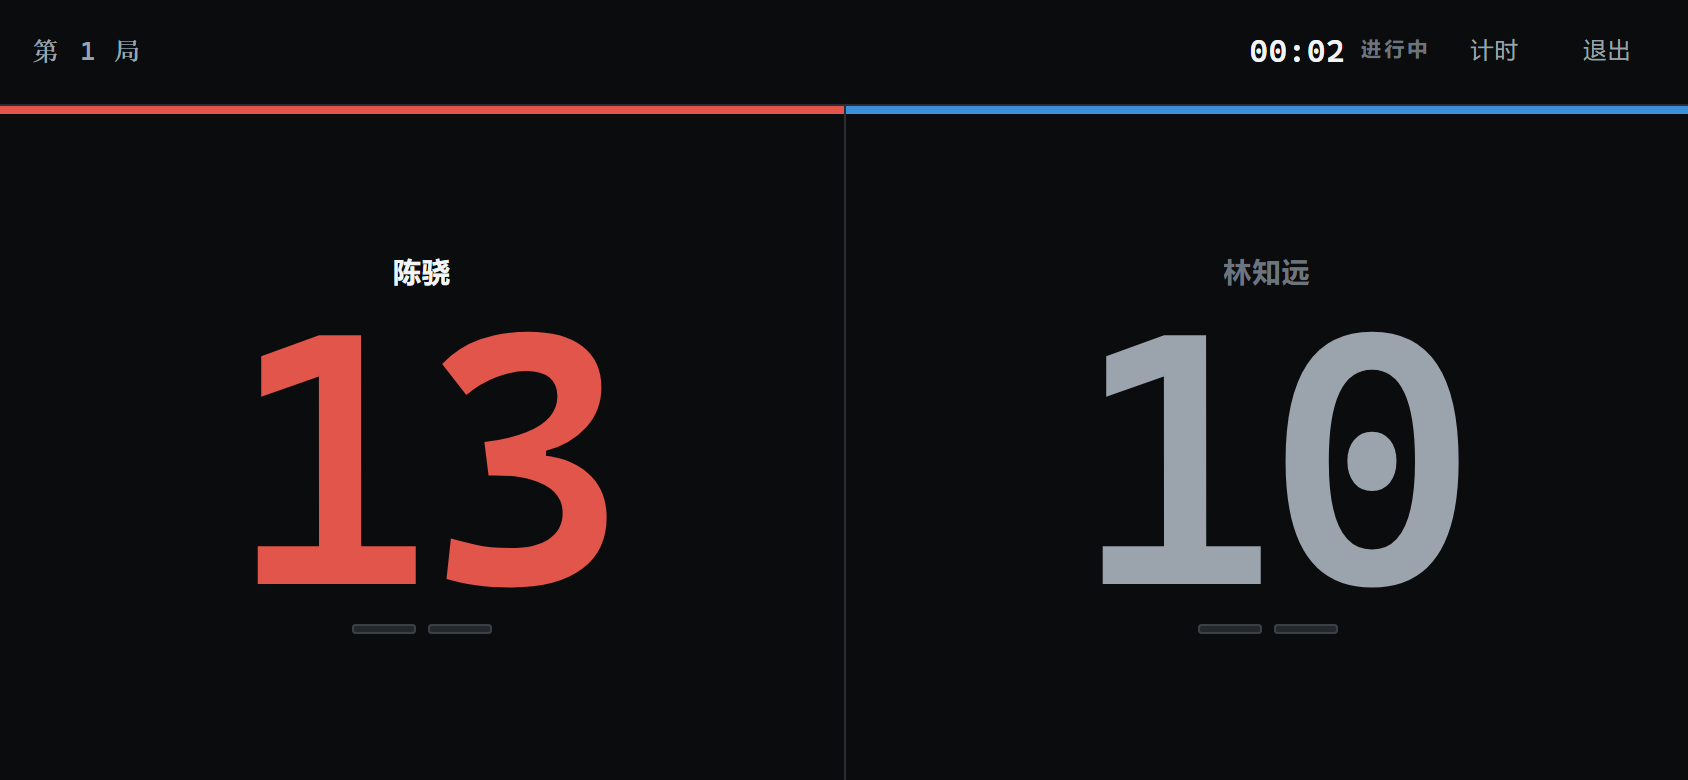
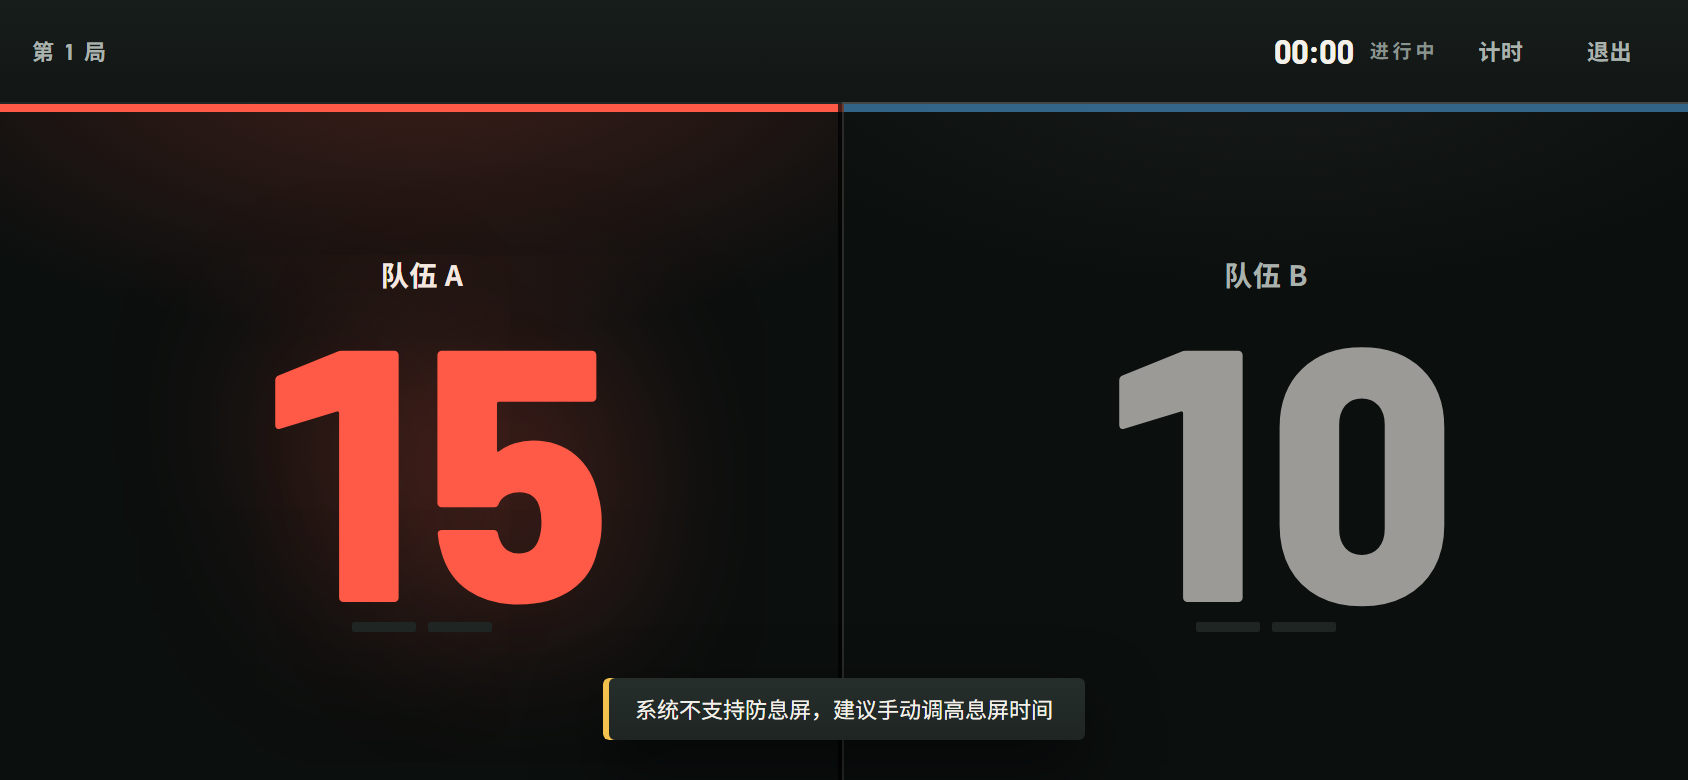
docs: README 与截图同步到 v4 夜场版
README / README_CN 更新视觉描述、字体说明与截图。docs/screenshots 四张界面图重新捕获为 v4 版。

diff --git a/README.md b/README.md
@@ -16,7 +16,7 @@
 <h3>🚀 The Ultimate Scoring & Management System for Badminton Lovers</h3>
 
 <p align="center">
-  <img src="https://img.shields.io/badge/Version-3.0.0-6839E8?style=for-the-badge&logo=semver&logoColor=white" alt="Version">
+  <img src="https://img.shields.io/badge/Version-4.0.0-6839E8?style=for-the-badge&logo=semver&logoColor=white" alt="Version">
   <img src="https://img.shields.io/badge/License-MIT-27F05C?style=for-the-badge&logo=opensourceinitiative&logoColor=white" alt="License">
   <img src="https://img.shields.io/badge/Adaptive-All_Platforms-00D9FF?style=for-the-badge&logo=skype&logoColor=white" alt="Platform">
 </p>
@@ -47,8 +47,8 @@ This is more than just a scoreboard; it's a comprehensive ecosystem for managing
 <td width="33%">
 
 ### 💎 Pure Aesthetics
-**Instrument Readout**  
-Neutral graphite surfaces with a precision tick-ring. Saturated colour is reserved exclusively for team identity.
+**Night Court**  
+The whole scoreboard is a court: the centre line is the net, the outer edges are the sidelines, and the leading side receives a pool of its own team colour.
 
 </td>
 <td width="33%">
@@ -98,6 +98,7 @@ Data lives in your browser's LocalStorage by default. No account required, and s
 ### 🏸 Professional Scoring System
 - **Real-time Timer**: Precisely record the duration of every match.
 - **Undo Mechanism**: Step back through the point log to undo accidental score touches.
+- **Round timeline**: every point becomes a bar — the x-axis is the rally number, bar height is the score after that rally, and a rule marks the round where the sides changed. Momentum, streaks and turning points in one glance.
 - **Auto-Judgment**: Handles Deuce up to 30 points, strictly following BWF rules.
 - **Victory FX**: Stunning full-screen effects and achievement unlock notifications.
 
@@ -105,7 +106,7 @@ Data lives in your browser's LocalStorage by default. No account required, and s
 - **Multiple Modes**: Random, Skill-Balanced (strong-weak pairing), and Round Robin.
 - **Expense Calculator**: Set totals, split by head, or use custom ratios. Copy results with one click.
 
-### 📺 Courtside Mode (new in v3)
+### 📺 Courtside Mode
 - **Giant readout**: scores scale to 179px in landscape — roughly 2.2 m of comfortable reading distance.
 - **Half-screen buttons**: each side is a full-height tap target, so you can hit it without looking.
 - **Gestures**: tap to score, long-press (>520ms) to undo the last point.
@@ -125,15 +126,30 @@ One purpose-built dark theme, tuned for a dim gym — there is no theme picker.
 
 **The design premise**: the phone is propped courtside, the player stands 2 metres away, one hand sweaty, the other holding a racket. Every rule below follows from that.
 
-- 🌑 **Neutral graphite**: `#101113` base with three layered surfaces. Not pure black (depth would be lost), not fluorescent (glare under gym lighting).
-- 🎯 **Team identity**: signal red `#E1554A` vs instrument blue `#3E8FD9` — the **only** saturated colours in the UI, and only where teams are concerned.
-- ⭕ **Tick-ring signature**: a 40-tick precision ring around each score, pure CSS (`conic-gradient` + `mask`). The leading side's ticks brighten while the trailing side dims — **state is expressed through the ring, not through glow**.
-- 🔢 **Numerals first**: monospace with `tabular-nums` for scores and timers, so digits don't jitter as they change.
+The design language is **"NIGHT COURT"**, and it follows from five rules:
+
+1. **Light is not a border.** Every surface is "two gradient stops + a top inner highlight", never "a flat fill + a 1px stroke". On a dark background a 1px grey line is invisible, and an invisible boundary is no boundary at all — which is exactly where v3's "instrument readout" language failed: once `--sh-flat` became `none`, every panel collapsed into one dead grey slab.
+2. **One protagonist.** The score is the only oversized element in the app. Every label is ≤11px with widened tracking, and never competes with the numerals.
+3. **Two lines define a match.** The centre line is the net (a bright line with dark gutters either side, drawn with `box-shadow`); the outer edges are the sidelines. Team colour appears only on lines, numerals and light pools — never as decoration.
+4. **A match has one shape.** The point feed became a **round timeline**: the x-axis is the rally number, bar height is the score after that rally, and a single rule marks the round where the sides changed. You read momentum and turning points at a glance instead of reading a list of "10 → 11".
+5. **Motion serves scoring only.** A point lands the numeral in (one frame of white flash, then a hard drop from 1.07 to 1 — no bounce), while a neutral band of light sweeps across the scoring side. Every other interaction is ≤120ms or absent.
+
+- 🌑 **Night-court green**: `#0A0D0C` base, `#0B0F0E` board, three layered surfaces. Not pure black (team colours overshoot blue on pure black), not fluorescent (glare under gym lighting).
+- 🎯 **Team identity**: shuttle-cork red `#FF5A47` vs court blue `#4FA8E8` — the **only** saturated colours in the UI, and only on sidelines, scores and light pools.
+- 🟡 **Amber means exactly one thing**: **in progress**. It used to double as the "selected" state, so "this match is live" and "this button is selected" looked identical; selection is now expressed with ivory or a light pool.
+- 🔢 **Numerals first**: `tabular-nums` for scores and timers, so digits don't jitter as they change.
+- 🔤 **The font ships with the app**: scores use **Barlow Semi Condensed** (SIL OFL, bundled — 3 weights, 68 KB total). Three hard reasons: at 140px its digits are 74.9px wide, 4% narrower than the DIN it replaced (a half-court is only 194px, so a narrower face means a larger score); it carries `tnum`, so digits don't jitter as they change; and its OFL licence permits redistribution.
+  Chinese still uses system faces (PingFang SC / Noto Sans SC) with the `unicode-range` pinned to Latin — which is why 68 KB covers the whole UI instead of a multi-megabyte CJK subset.
+- 🟢 **Leading is shown by light**: the leading side receives a pool of its own team colour and its sideline brightens, while the trailing side is the same white ink dimmed to 62%. No outlines, no glowing icons, no colour swap.
 - ♿ **Accessibility**: every touch target ≥ 44×44 (verified across 11 views, zero exceptions), WCAG AA contrast throughout, with focus trapping and screen-reader announcements.
 
 ### Deliberately removed
 
-The previous version (v2) spoke a "broadcast truck" language: `#D4FF3F` high-voltage fluorescent, `clip-path` chamfers, scanlines, italic Impact numerals, glowing outlines. All of it was removed in v3 — fluorescent colour is the single biggest source of cheapness, and stacking decoration is not the same thing as having texture.
+v2 spoke a "broadcast truck" language: `#D4FF3F` high-voltage fluorescent, `clip-path` chamfers, scanlines, italic Impact numerals, glowing outlines — all removed in v3.
+
+v3 then over-corrected: in the name of "no glow" it switched every shadow off and replaced them with 1px hairlines, so the panels vanished into the dark background. v4 puts the light back, but only one kind of light: a single key light from above. The same pass removed v3's **tick ring** — those 40 precision ticks around each score were handsome, but they mapped to no real rule and were pure decoration. That space now carries the game progress line, whose tick sits on the actual side-change point (11 in a 21-point game, 8 in a 15-point game, 6 in an 11-point game).
+
+The full v4 design system, the point-by-point reconciliation table and the implementation corrections are recorded in [`docs/redesign-v4/index.html`](docs/redesign-v4/index.html) (open it directly in a browser).
 
 ---
 
@@ -170,6 +186,7 @@ Built on the **"Vanilla First"** principle, achieving powerful features with min
 - **Core**: HTML5, CSS3 (Modern Flex & Grid), ES6+ JavaScript
 - **Charts**: [Chart.js](https://www.chartjs.org/) - Powerful data visualization
 - **Rendering**: [html2canvas](https://html2canvas.hertzen.com/) - High-quality share card generation
+- **Fonts**: Barlow Semi Condensed (SIL OFL, bundled — see `fonts/`)
 - **Storage**: LocalStorage — 10 keys, all on-device
 
 ---

diff --git a/README.zh-CN.md b/README.zh-CN.md
@@ -16,7 +16,7 @@
 <h3>🚀 为羽毛球爱好者打造的殿堂级计分与管理系统</h3>
 
 <p align="center">
-  <img src="https://img.shields.io/badge/版本-3.0.0-6839E8?style=for-the-badge&logo=semver&logoColor=white" alt="Version">
+  <img src="https://img.shields.io/badge/版本-4.0.0-6839E8?style=for-the-badge&logo=semver&logoColor=white" alt="Version">
   <img src="https://img.shields.io/badge/许可证-MIT-27F05C?style=for-the-badge&logo=opensourceinitiative&logoColor=white" alt="License">
   <img src="https://img.shields.io/badge/适配-全平台-00D9FF?style=for-the-badge&logo=skype&logoColor=white" alt="Platform">
 </p>
@@ -47,8 +47,8 @@
 <td width="33%">
 
 ### 💎 极致美学
-**仪表读数器**  
-中性石墨底 + 精密刻度环，全屏彩色只用于队伍识别。数字用等宽体，读数不跳动。
+**夜场球场**  
+整块记分板就是一张球场：中线是网、外沿是边线，领先方接到自己队色的顶光。数字等宽，读数不跳动。
 
 </td>
 <td width="33%">
@@ -99,17 +99,18 @@
 ### 🏸 专业计分系统
 - **实时计时**：精确记录每一场比赛的耗时。
 - **撤销机制**：沿得分流水逐步回退，防止比分误触。
+- **回合时间轴**：每一分落成一根柱子，横轴是回合序号、柱高是该回合后的比分，换边那回合有一条竖线。一屏就能看出势头、连得与转折。
 - **自动判定**：自动处理加分赛（Deuce）至30分封顶，符合国际羽联规则。
 - **胜利动效**：华丽的胜利全屏特效与成就解锁提示。
 
-### 📺 场边模式（v3 新增）
+### 📺 场边模式
 - **超大字报**：横屏比分 179px，按标准标牌算法约 2.2 米舒适可读。
 - **半屏即按钮**：左右各占一半宽度、整块可点，闭眼也能按中。
 - **手势**：轻点加分，长按（>520ms）撤回上一分。
 - **防息屏**：Screen Wake Lock，切后台回来会自动重新申请。
 - **降级安全**：全屏 / 锁方向 / 防息屏任一不可用都不影响计分。
 
-### ☁ 账号与云同步（v3 新增，可选）
+### ☁ 账号与云同步（可选）
 - **本地优先**：不登录也完全可用，计分永不等网络 —— 球馆信号差是常态。
 - **离线队列**：离线期间的比赛存在本地队列，恢复网络后**自动补推**，无需手动操作。
 - **幂等去重**：按 `(owner_id, clientId)` 唯一索引去重，弱网重试不会产生重复记录。
@@ -149,17 +150,32 @@
 
 **设计前提**：手机架在场边、人站在 2 米外、一手汗一手拍。这套界面的每一条规则都由它推导。
 
-- 🌑 **中性石墨**：`#101113` 底色 + 三阶表面。不用纯黑（保留层次），不用荧光（球馆灯下刺眼）。
-- 🎯 **队伍识别**：信号红 `#E1554A` 对仪表蓝 `#3E8FD9`——全应用**仅此两组饱和色**，只出现在队伍相关处。
-- ⭕ **刻度环签名**：比分外圈 40 格精密刻度（纯 CSS `conic-gradient` + `mask`）。领先方刻度转亮，落后方整体降调——**用刻度表达状态，而不是发光**。
-- 🔢 **数字优先**：比分与计时用等宽字体 + `tabular-nums`，逐帧变化不跳动。
+设计语言叫**「夜场 NIGHT COURT」**，由五条铁律推出来：
+
+1. **光不是边框。** 每一块面都是「两段渐变 + 一条顶部内高光」，而不是「平面 + 1px 描边」。暗色界面里 1px 灰线是看不见的，看不见的边界等于没有边界——v3 的「仪表读数器」就是栽在这里：`--sh-flat: none` 之后所有面板塌成一块死灰。
+2. **一个主角。** 比分是全站唯一的巨型元素。所有标签一律 ≤11px 且加宽字距，永远不与数字争。
+3. **两条线定义一场球。** 中线是网（亮线 + 两侧暗槽，靠 `box-shadow` 画），外沿是边线。队色只出现在线、数字、光池里，不做装饰。
+4. **一场比赛有一条形状。** 得分流水升级为**回合时间轴**：横轴是回合序号，柱高是该回合后的比分，一条竖线标出换边发生在第几回合。一屏读出势头与转折，而不是读一串「10 → 11」。
+5. **动效只服务得分。** 得分时数字「砸」进来（一帧白闪 + 从 1.07 硬落到 1，不回弹），同时一道中性的光扫过本方半场。其余交互一律 ≤120ms 或不做。
+
+- 🌑 **夜场墨绿**：`#0A0D0C` 底 + `#0B0F0E` 场板 + 三阶表面。不用纯黑（纯黑上队色边缘会过冲发蓝），不用荧光（球馆灯下刺眼）。
+- 🎯 **队伍识别**：球头橙红 `#FF5A47` 对球场蓝 `#4FA8E8`——全应用**仅此两组饱和色**，且只出现在边线、比分、光池三处。
+- 🟡 **琥珀只有一个含义**：**进行中**。它曾经被拿去当「选中态」，于是「这场球在打」和「这个按钮被选中」长得一模一样；现在选中态一律改用象牙白 / 光池表达。
+- 🔢 **数字优先**：比分与计时一律用 `tabular-nums` 等宽数字（同宽字形），逐帧变化不跳动。
+- 🔤 **字体自带，不靠系统**：比分数字用 **Barlow Semi Condensed**（SIL OFL，随项目打包 3 档共 68KB）。选它有三个硬理由：140px 下数字宽 74.9px，比原先的 DIN 还窄 4%（半场只有 194px，字形窄一点就意味着比分能开大一点）；带 `tnum`，逐帧变化不跳动；OFL 授权，可以合法随包分发。
+  中文仍走系统字体（PingFang SC / Noto Sans SC），`unicode-range` 锁在拉丁区——所以 68KB 就能覆盖整个界面，而不是几 MB 的 CJK 子集。
+- 🟢 **领先只靠光**：领先方拿到自己队色的顶光 + 边线转亮，落后方是同一支白墨减光到 62%。不描边、不发光图标、不换颜色。
 - ♿ **可访问性**：全部触摸目标 ≥ 44×44（实测 11 个视图 0 例外），对比度过 WCAG AA
   （由 `tools/audit-ui.js` 逐视图逐元素核算，含大字号放宽规则），焦点陷阱与读屏播报齐备，
   iOS 刘海安全区（`safe-area-inset-top`）已接进顶栏与全屏覆盖层。
 
 ### 刻意不做的事
 
-旧版（v2）用的是「转播车」语言：`#D4FF3F` 高压电荧光、切角 `clip-path`、扫描线、Impact 斜体数字、辉光描边。这些在 v3 中被**逐条移除**——荧光色是廉价感的头号来源，装饰叠加不等于质感。
+旧版（v2）用的是「转播车」语言：`#D4FF3F` 高压电荧光、切角 `clip-path`、扫描线、Impact 斜体数字、辉光描边——这些在 v3 中被逐条移除。
+
+v3 又矫枉过正：它为了「不发光」把阴影全部关掉、改成 1px 细线，结果面板在深色底上整片消失。v4 把光**加回来**，但只加一种光：从上方来的一盏顶灯。同一时期被删掉的还有 v3 的**刻度环**——比分外圈那 40 格刻度很精致，但它不对应任何真实规则，是纯装饰；现在那个位置换成了本局进度线，刻度落在真正的换边点（21 分制 11 分 / 15 分制 8 分 / 11 分制 6 分）。
+
+完整的 v4 设计系统、逐条对账表与落地修正记录见 [`docs/redesign-v4/index.html`](docs/redesign-v4/index.html)（可直接用浏览器打开）。
 
 ---
 
@@ -196,6 +212,7 @@ python -m http.server 8000
 - **前端**：HTML5, CSS3 (Modern Flex & Grid), ES6+ JavaScript —— **零构建**，`file://` 双击即可运行
 - **图表**：[Chart.js](https://www.chartjs.org/) - 强大的数据可视化
 - **渲染**：[html2canvas](https://html2canvas.hertzen.com/) - 生成精美的分享卡片
+- **字体**：Barlow Semi Condensed（SIL OFL，随包分发，见 `fonts/`）
 - **存储**：LocalStorage（本机），可选云同步到 Cloudflare
 - **后端（可选）**：Cloudflare Workers + D1（SQLite）+ KV，零依赖手写路由
 - **部署**：前端纯静态可放任意托管；后端一条 `wrangler deploy`
